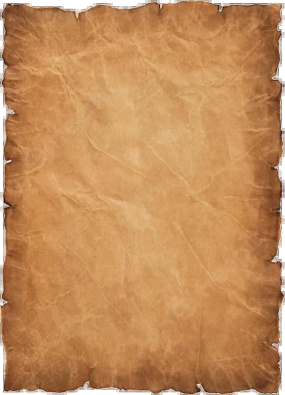
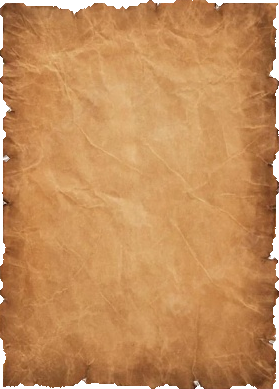
Refine project 2 parchment intro: cleaner edges, larger hex, slow fade.
Aggressively key out white fringe, enlarge the overlay hexagon, and replace the parchment entrance with a slow opacity fade.

diff --git a/style.css b/style.css
@@ -1396,15 +1396,24 @@ body[data-page="project-2"] .project-two-section.page-enter {
 
 .project-two-parchment {
     position: relative;
-    width: min(420px, 88vw);
-    animation: project-two-parchment-in 0.9s ease-out both;
+    width: min(480px, 92vw);
+    animation: project-two-parchment-in 2.8s ease-in both;
+}
+
+.project-two-parchment-filter {
+    position: absolute;
+    width: 0;
+    height: 0;
+    overflow: hidden;
 }
 
 .project-two-parchment-bg {
     display: block;
     width: 100%;
     height: auto;
-    filter: drop-shadow(0 18px 40px rgba(0, 0, 0, 0.55));
+    filter:
+        url(#project-two-parchment-erode)
+        drop-shadow(0 18px 40px rgba(0, 0, 0, 0.55));
 }
 
 .project-two-parchment-hex {
@@ -1412,17 +1421,27 @@ body[data-page="project-2"] .project-two-section.page-enter {
     inset: 0;
     display: grid;
     place-items: center;
-    padding-top: 6%;
+    padding-top: 0;
+    transform: scale(1.28);
+    transform-origin: center center;
+    animation: project-two-hex-in 2.8s ease-in both;
 }
 
 @keyframes project-two-parchment-in {
     from {
         opacity: 0;
-        transform: translateY(18px) scale(0.96);
     }
     to {
         opacity: 1;
-        transform: translateY(0) scale(1);
+    }
+}
+
+@keyframes project-two-hex-in {
+    from {
+        opacity: 0;
+    }
+    to {
+        opacity: 1;
     }
 }
 

diff --git a/src/components/ProjectTwoIntro.jsx b/src/components/ProjectTwoIntro.jsx
@@ -109,13 +109,18 @@ export default function ProjectTwoIntro({ onDone }) {
 
             {phase === PHASE.PARCHMENT && (
                 <div className="project-two-parchment">
+                    <svg className="project-two-parchment-filter" aria-hidden="true">
+                        <filter id="project-two-parchment-erode">
+                            <feMorphology operator="erode" radius="1.2" />
+                        </filter>
+                    </svg>
                     <img
                         className="project-two-parchment-bg"
                         src={`${import.meta.env.BASE_URL}img/project2-parchment.png`}
                         alt=""
                     />
                     <div className="project-two-parchment-hex">
-                        <HollandHexagon interactive={false} size={240} />
+                        <HollandHexagon interactive={false} size={360} />
                     </div>
                 </div>
             )}